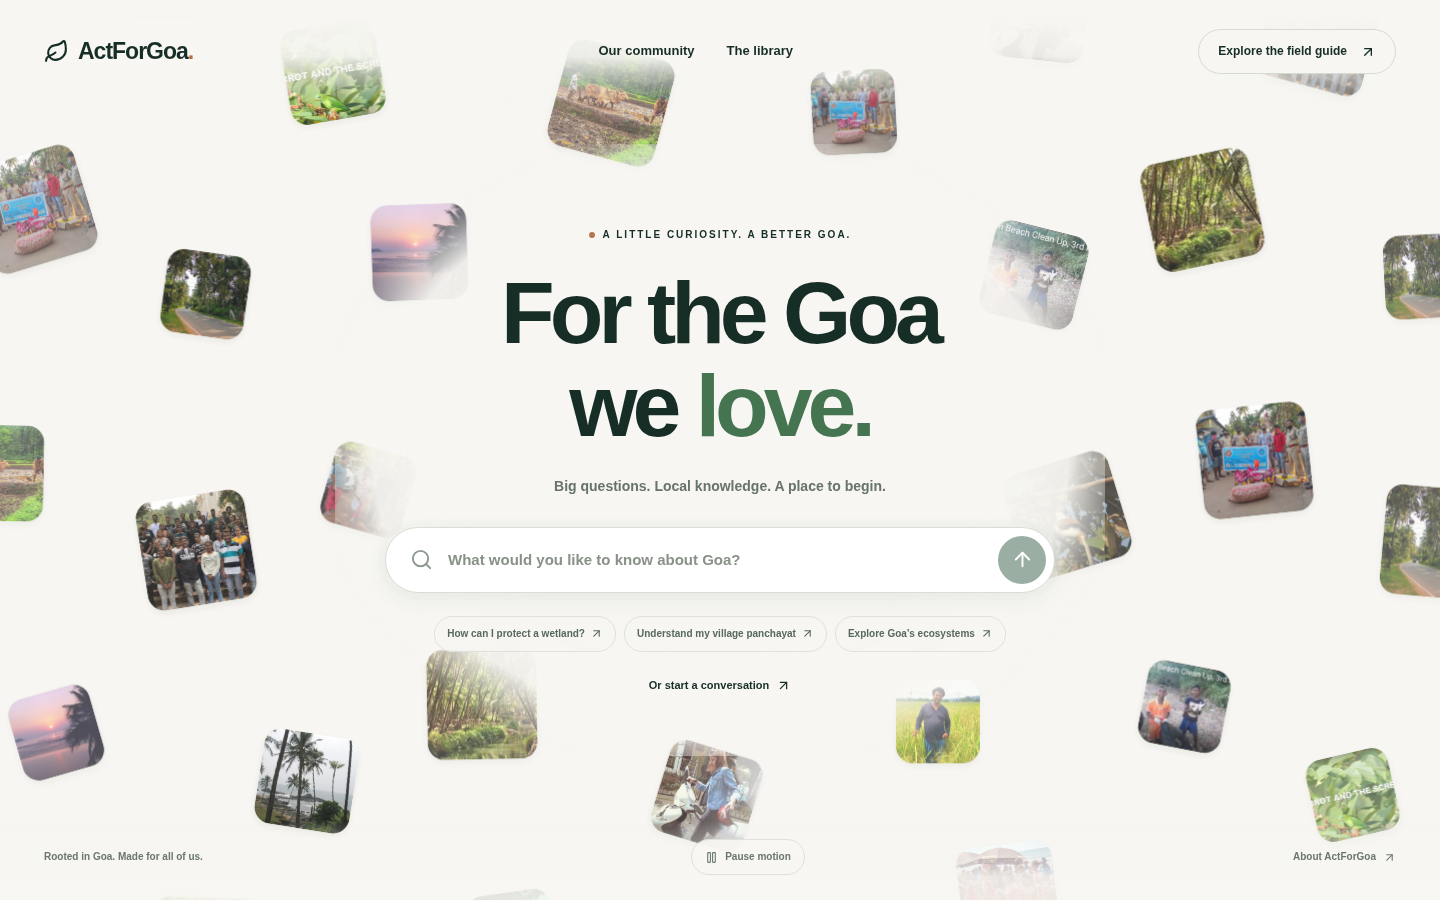
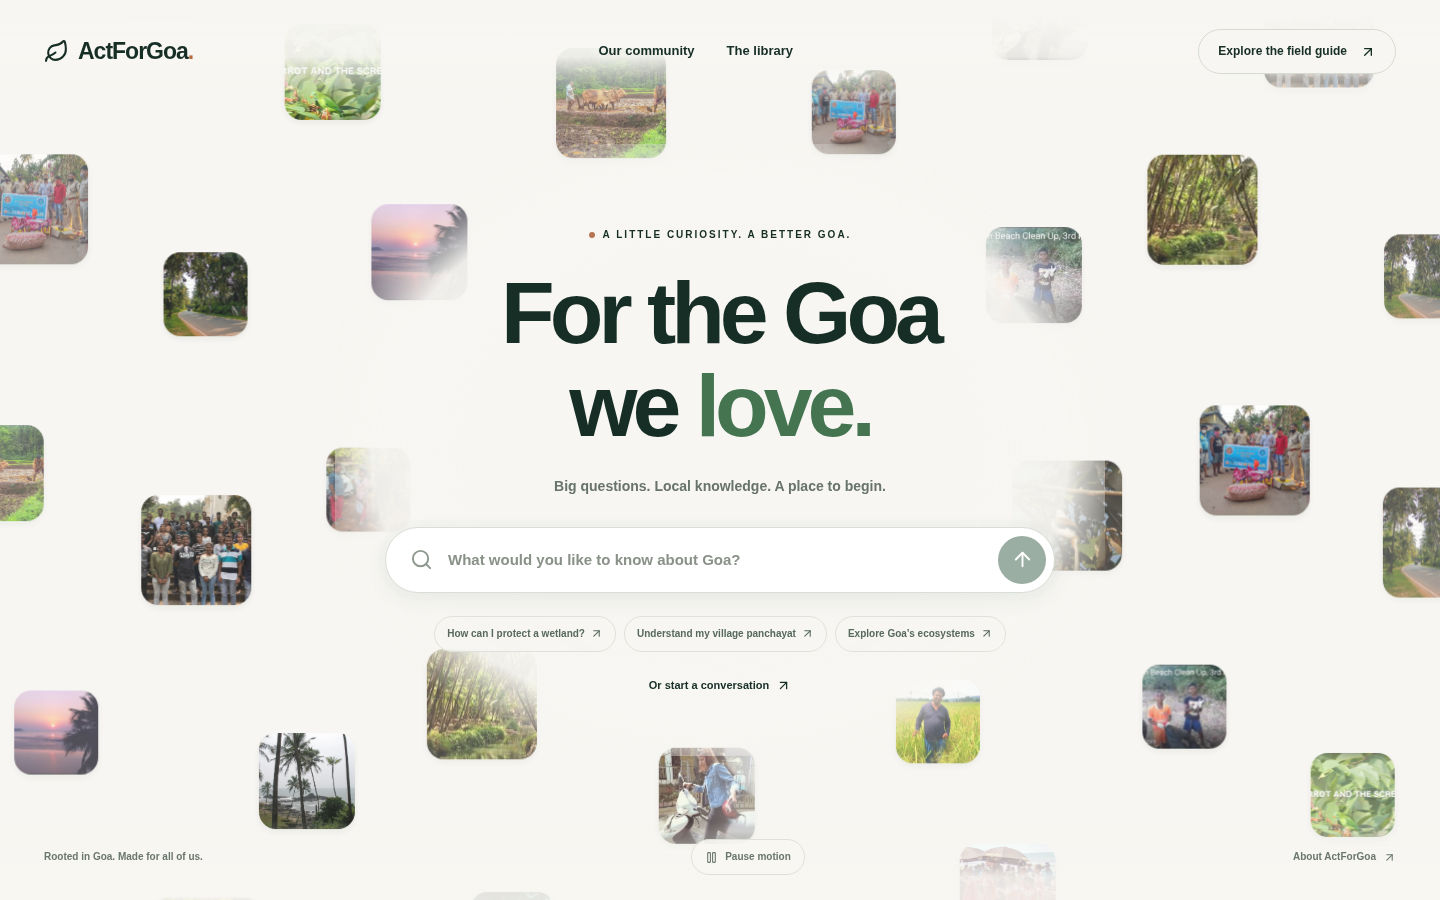
Record public explore route deployment and upright photo checks

diff --git a/reports/orbit-landing-2026-10-28/README.md b/reports/orbit-landing-2026-10-28/README.md
@@ -5,3 +5,16 @@ Route: `/explore`. Cosmos-inspired above-the-fold treatment with three concentri
 Validated with actual Chromium at 1440×900, 390×844 and 320×844. `qa.json` records loaded images, no horizontal overflow or page errors, animation durations, pause and question transfer. Reduced-motion uses no animation. Screenshots capture each size. Production build and all 178 Node tests pass. Live model output was not tested. Installed Impeccable skill is unavailable in this executor.
 
 Implemented and tested; not merged or deployed. Existing release coordinator retains review-site promotion ownership.
+
+## Live route publication
+
+The user subsequently explicitly authorized shipping at `https://actforgoa-field-guide.vercel.app/explore` and requested upright photos. Source commit `755177e` removes tile tilt while preserving orbit speeds. Production build passed; public Chromium evidence is in `live-qa.json` and `live-*.png` (all photos loaded, no horizontal overflow/page errors, pause/resume, draft transfer and reduced-motion checks).
+
+Published as a scoped Vercel project routing update in existing project `prj_4BRx1f4MrLFE5p6Ljnhkp33TOltz`; **no production deployment/alias promotion**. Existing production target remains `dpl_FzbANqhz96u2JNt2eb6fK4BDtS7c`. The isolated static asset deployment is `dpl_4VzSLExLmufsCCJ9HvNohACTbFXu`, built with `vite build --base=/orbit-assets/` from `755177e`. Upload contains the generated index and top-level JS/CSS/font assets only; source data and archived photos continue to load from the existing public site.
+
+Internal origin alias: `actforgoa-explore-assets.vercel.app` (alias-specific public access exception for these public static files; project-wide deployment protection unchanged). Active routing version: `bc71d1f7-c609-46ec-b305-e6b9f776be6d`:
+
+- Route `5e24f99d-63b6-4dcf-a7a0-be4e45b91e8d`: host `actforgoa-field-guide.vercel.app`, `^/explore/?$` → `https://actforgoa-explore-assets.vercel.app/index.html`.
+- Route `94bf18e7-a5ea-45a0-ad4b-3d9b168ff70d`: same host, `^/orbit-assets/(.*)$` → `https://actforgoa-explore-assets.vercel.app/$1`.
+
+A future integrated deployment must explicitly retire these two project routing rules after verifying its native `/explore`; otherwise the isolated page keeps precedence. Do not overwrite unrelated staged routing changes. Before this feature there were no project routing rules. The existing site's optional `/api/curation` returns 404 and falls back normally; no new API service was published. AI generation itself was not exercised.

diff --git a/docs/CLOUD-IMPLEMENTATION-PLAN.md b/docs/CLOUD-IMPLEMENTATION-PLAN.md
@@ -139,3 +139,7 @@ Environment reports no bound secrets or cloud identities. HTTP access currently 
 Branch `codex/goa-orbit-landing`, based on freshly fetched main `a786df5`, adds `/explore` as a separate above-the-fold chat landing inspired by the supplied Cosmos reference. Three concentric photo rings rotate at 90/150/240 seconds; existing local Goa/community images surround the central question bar. Pause/resume, reduced-motion, suggested questions and draft transfer to `/ask` are implemented. Existing home, header/footer and chat availability rules are preserved on other routes. No generated images or paid inference.
 
 Implemented + tested: 178 Node tests and production build pass; Chromium desktop 1440px and phone 390/320px validate image loading, no overflow/page errors, animation control and exact question transfer. Evidence: `reports/orbit-landing-2026-10-28/`. Impeccable is unavailable in this executor. Not merged or live. The release owner should integrate the feature commit and review `/explore` before including it in a coordinated release; no alias promotion was attempted.
+
+### Orbit landing live follow-up
+
+User explicitly requested shipping `/explore` on the existing field-guide URL and aligning photos upright. Source `755177e` implements the alignment. The page is now live via two scoped Vercel project routing rules, with isolated static deployment `dpl_4VzSLExLmufsCCJ9HvNohACTbFXu`; existing production deployment/alias is unchanged. Public desktop + 390/320px checks pass, including loaded photos and exact draft transfer. Full publication/route IDs and retirement instructions are recorded in `reports/orbit-landing-2026-10-28/README.md`. Implemented, tested and route-published; PR #98 source is not yet merged. Future release owners must remove the scoped routing overrides when integrated `/explore` is deployed and verified.
